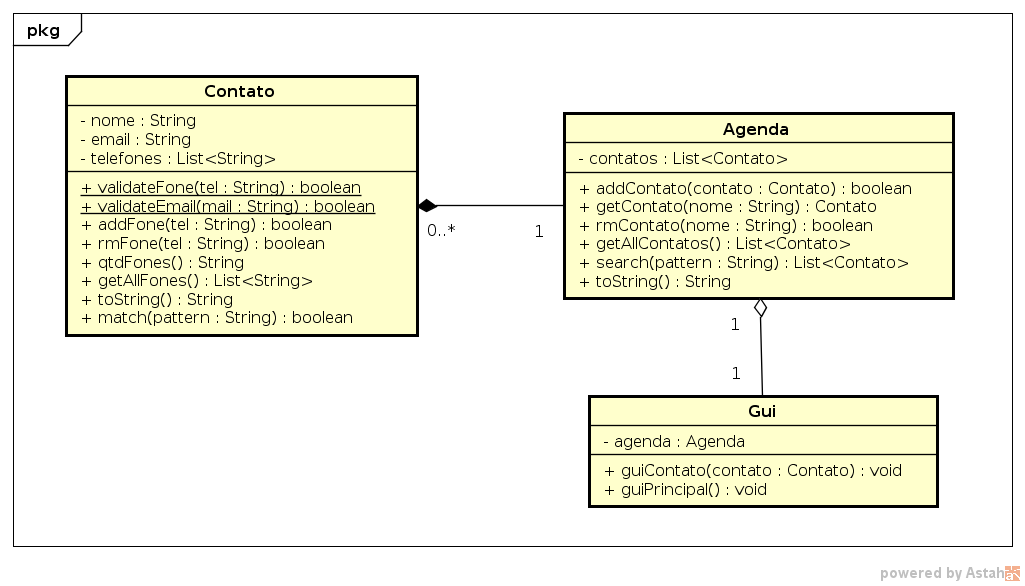
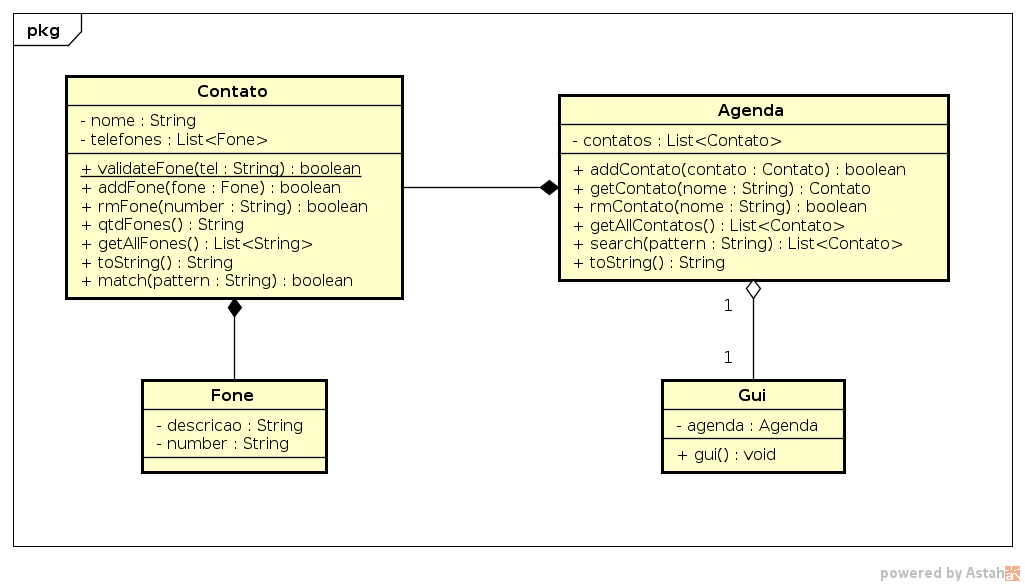
up

Changed region(s): [[0.0624, 0.1229, 0.9366, 0.8908], [0.1249, 0.6451, 0.3434, 0.8294], [0.1873, 0.1229, 0.281, 0.1843]]

diff --git a/2_composicao_agenda/Readme.md b/2_composicao_agenda/Readme.md
@@ -4,63 +4,67 @@
 
 Ampliando a atividade de contatos do nível 1, vamos criar uma agenda que gerencia os nossos contatos.
 
-## Requisitos de Contatos
+## Funcionalidades
 
-**Antigos**:
+- **[1P]** Deverá adicionar contatos usando um nome.
+- Não deve ser possível adicionar dois contatos com o mesmo nome.
 
-* Todo contato deve ter um nome e opcionalmente um email.
-* O nome do contato não pode ser vazio.
-* [1P] Deve ser possível alterar o nome e o email.
-```
->> setNome _nome
-Nome atualizado
+        >> addContato $nome
+        contato adicionado
+        ------
+        erro | contato já existe
 
->> setMail _mail
-email atualizado
-```
-* O contato pode ter vários telefones.
-* Telefones não devem ser vazios.
-* [1P] Não deve ser possível inserir dois números de telefones iguais.
-* [1E] Um email deve seguir o modelo a@b.c, contendo arroba e ponto nessa ordem.
-* [1E] Um telefone deve ser composto apenas por digitos.
+---
+- **[1P]** Remover um contatos pelo nome.
 
-## Requisitos da Agenda
+        >> rmContato $nome
+        contato removido
+        ------
+        erro | contato não existe
 
-* [2P] Possuir vários contatos.
-* [4P] Deve ser possível inserir, remover, alterar e buscar contatos.
+---
+- **[1P]** Deverá adicionar telefones ao contato.
+- Telefones tem descrição e número.
+- **[1P]** Não deve ser possível adicionar dois telefones iguais no mesmo contato.
+- **[1E]** O número deverá conter apenas dígitos.
 
-```
->>>> addContato _nome _email
-Contato adicionado
 
->> rmContato _nome
-Contato removido
+        >> addFone $nome $number $descricao
+        ok
+        ------
+        erro | numero já existe
+        erro | numero inválido
+        erro | nome não existe
 
->> alterarContato _nome _novoNome _novoemail
-Contato alterado
+---
+- **[1P]** Deverá remover telefones do contato.
 
->> listarContato
-Nome: _nome, Email: _email
-Fone1 Desc1
-...
-FoneN DescN
-```
+        >> rmFone $nome $number
+        ok
+        ------
+        erro | nome nao existe
+        erro | number não existe
 
-* [1P] Deve ser possível buscar contatos por padrão(substring).
-Dado um padrão, o sistema deve retornar todos os contatos que contém esse padrão como parte dos seus campos
+---
+- **[1P]** Mostrar os contatos
+- **[1E]** Ordene os contatos pelo nome.
 
-```
->> buscar _substring
-[contato1 contato2 ...]
-```
-* [1P] Não deve ser permitido dois contatos com o mesmo nome.
+        >> showContatos
+        $nome1 [$fone1 $desc1][$fone2 $desc2] ...
+        ...
 
-## Atividade
-- Adapte sua antiga classe Contato se achar necessário.
-- Implemente a classe Agenda.
-- Faça uma processo de inicialização da Agenda em código para ao abrir
-o programa, já estarem cadastrados alguns contatos.
-- Crie a interface que permita ao usuário interagir com a Agenda.
+---
+- **[1P]** Buscar contatos por substring
+- **[1E]** Se o contato tiver qualquer campo que combine com a string pattern de busca,
+ele deve ser retornado.
+
+        >> search $pattern
+        $nome1 [$fone1 $desc1][$fone2 $desc2] ...
+        ...
+
+---
+- **[1P]** Inicilize o sistema para que ele já inicie com alguns contatos e telefones.
+
 
 ## Diagrama de Classes
 

diff --git a/1_base_junk_food_machine/Readme.md b/1_base_junk_food_machine/Readme.md
@@ -1,6 +1,6 @@
 ## Máquina de Vender JunkFood
 
-![Máquina de vender](https://cbsnews1.cbsistatic.com/hub/i/r/2013/02/01/4bbe2b3a-a645-11e2-a3f0-029118418759/thumbnail/620x350/83e6612f8ee5eaf4137dc5b6f71ca247/schoolunch.jpg)
+![Máquina de vender](https://cbsnews3.cbsistatic.com/hub/i/r/2013/06/27/ab03d365-1c50-11e3-9918-005056850598/thumbnail/620x350/bd0d7fca92b09061ea58349420efd7ca/vendingmachine.jpg)
 
 O objetivo dessa atividade é implementar uma classe responsável por uma máquina de vender JunkFood. Na máquina existem várias espirais. Uma espiral contém uma certa quantidade de produtos com o mesmo tipo e mesmo preço. O usuário coloca o dinheiro, compra o produto e recebe o troco.
 
